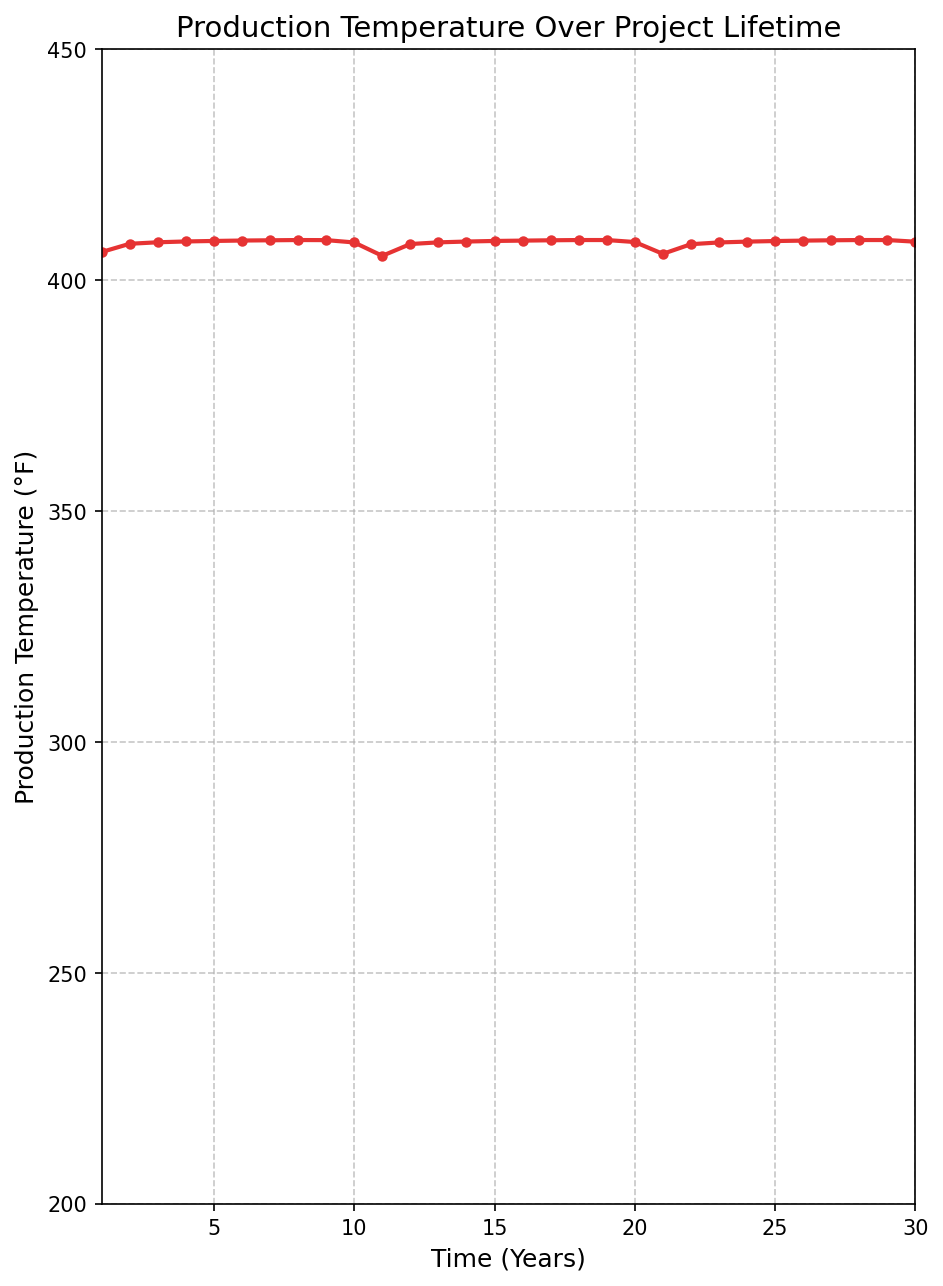
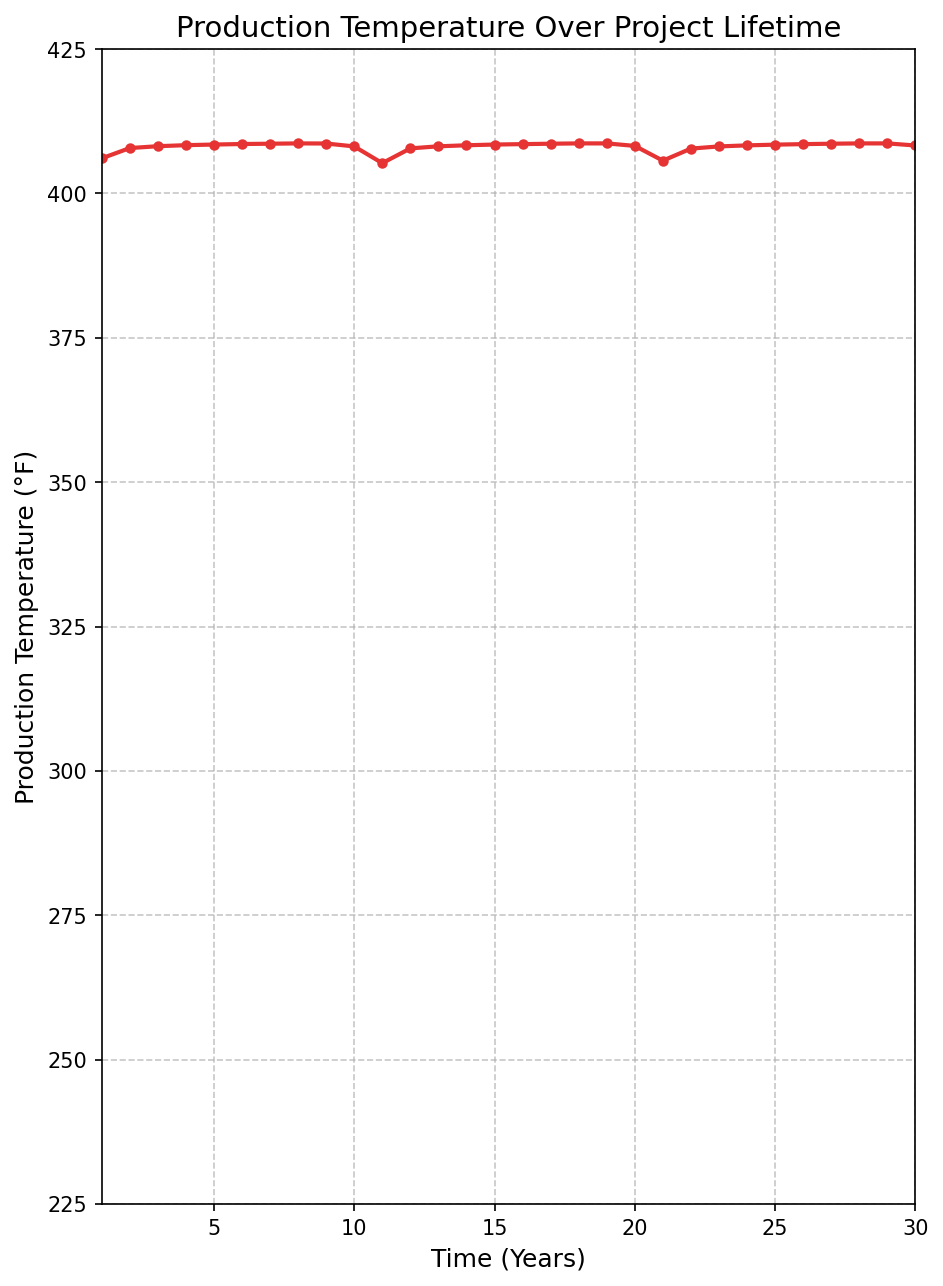
include comparison table in results

diff --git a/docs/generate_fervo_project_cape_4_graphs.py b/docs/generate_fervo_project_cape_4_graphs.py
@@ -113,7 +113,7 @@ def generate_production_temperature_graph(
 
     # Set axis limits
     ax.set_xlim(years.min(), years.max())
-    ax.set_ylim(200, 450)
+    ax.set_ylim(225, 425)
 
     # Add grid for better readability
     ax.grid(True, linestyle='--', alpha=0.7)
@@ -133,20 +133,26 @@ def generate_production_temperature_graph(
 def generate_fervo_project_cape_4_graphs(
     input_params: GeophiresInputParameters, result: GeophiresXResult, output_dir: Path
 ) -> None:
-    generate_net_power_graph(result, output_dir)
-    generate_production_temperature_graph(result, output_dir)
+    # generate_net_power_graph(result, output_dir)
+    # generate_production_temperature_graph(result, output_dir)
 
+    # fmt:off
     singh_et_al_base_simulation_input_params = ImmutableGeophiresInputParameters(
         from_file_path=input_params.as_file_path(),
-        params={'Number of Production Wells': 4, 'Maximum Drawdown': 1, 'Plant Lifetime': 15},
+        params={
+            'Number of Production Wells': 4,
+            'Maximum Drawdown': 1,
+            'Plant Lifetime': 15,
+        },
     )
+    # fmt:on
 
     singh_et_al_base_simulation_result = GeophiresXClient().get_geophires_result(
         singh_et_al_base_simulation_input_params
     )
-    generate_net_power_graph(
-        singh_et_al_base_simulation_result, output_dir, filename='singh_et_al_base_simulation-net-power-production.png'
-    )
+    # generate_net_power_graph(
+    #     singh_et_al_base_simulation_result, output_dir, filename='singh_et_al_base_simulation-net-power-production.png'
+    # )
     generate_production_temperature_graph(
         singh_et_al_base_simulation_result,
         output_dir,
